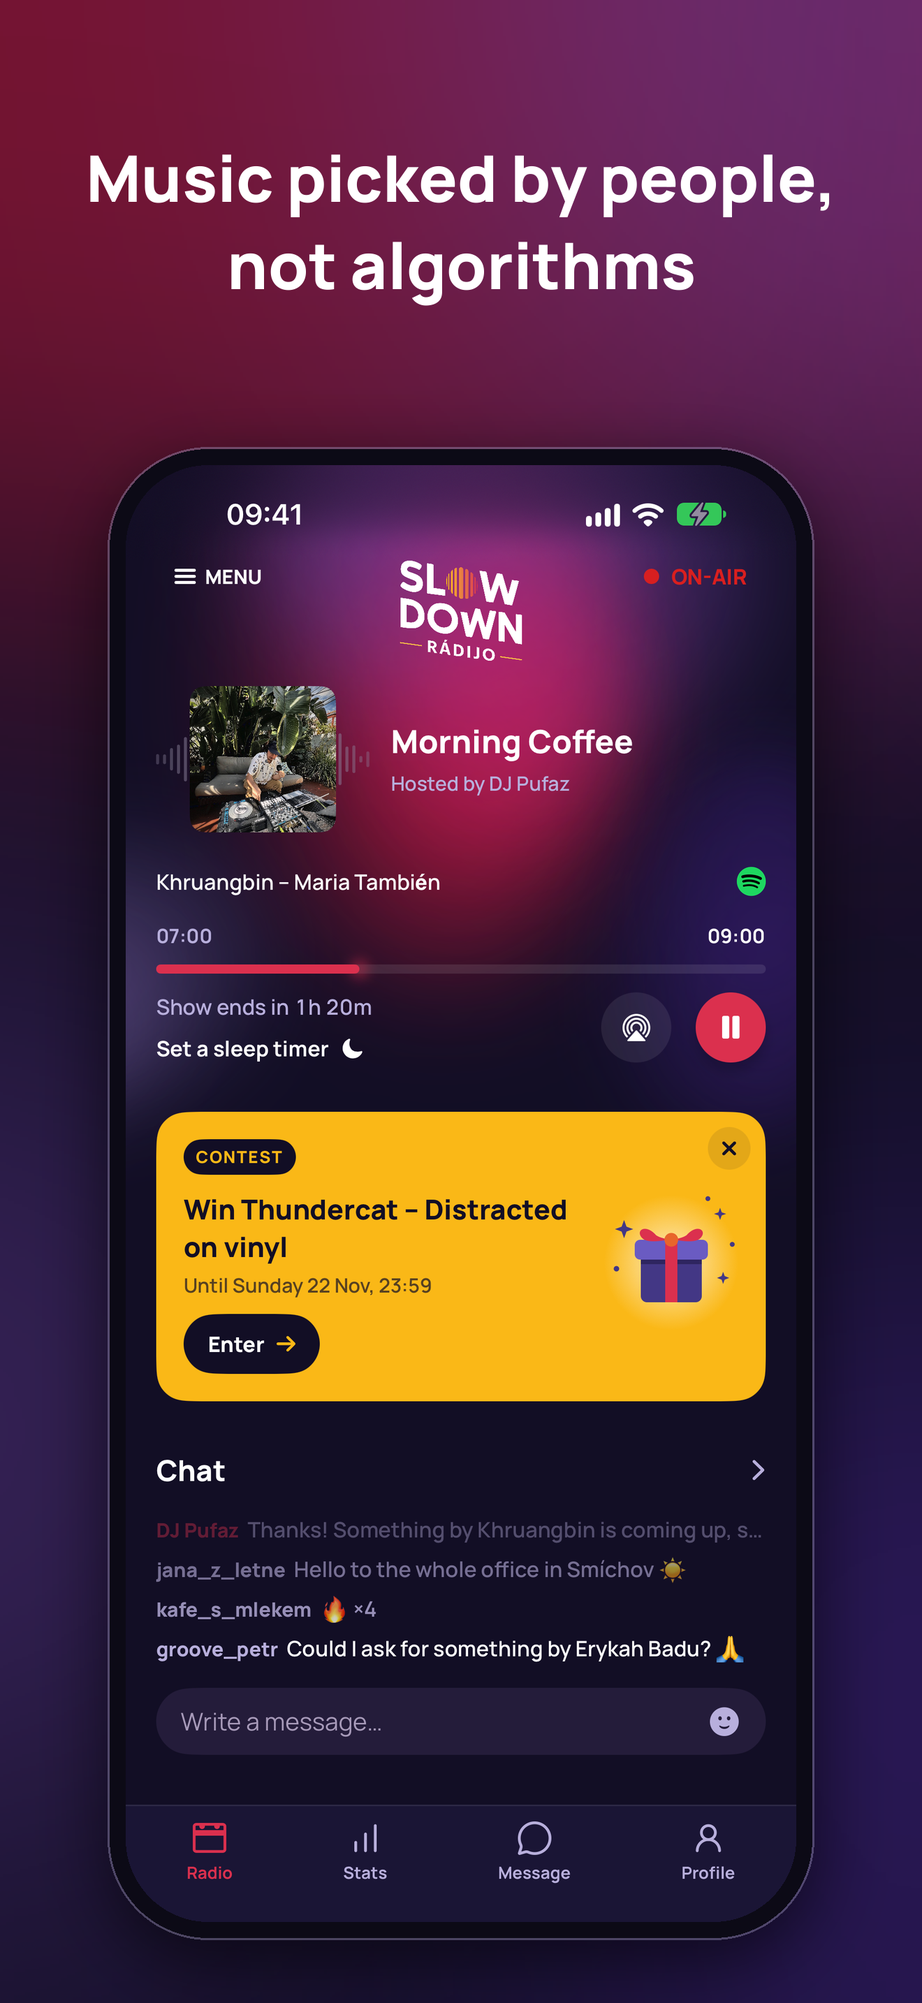
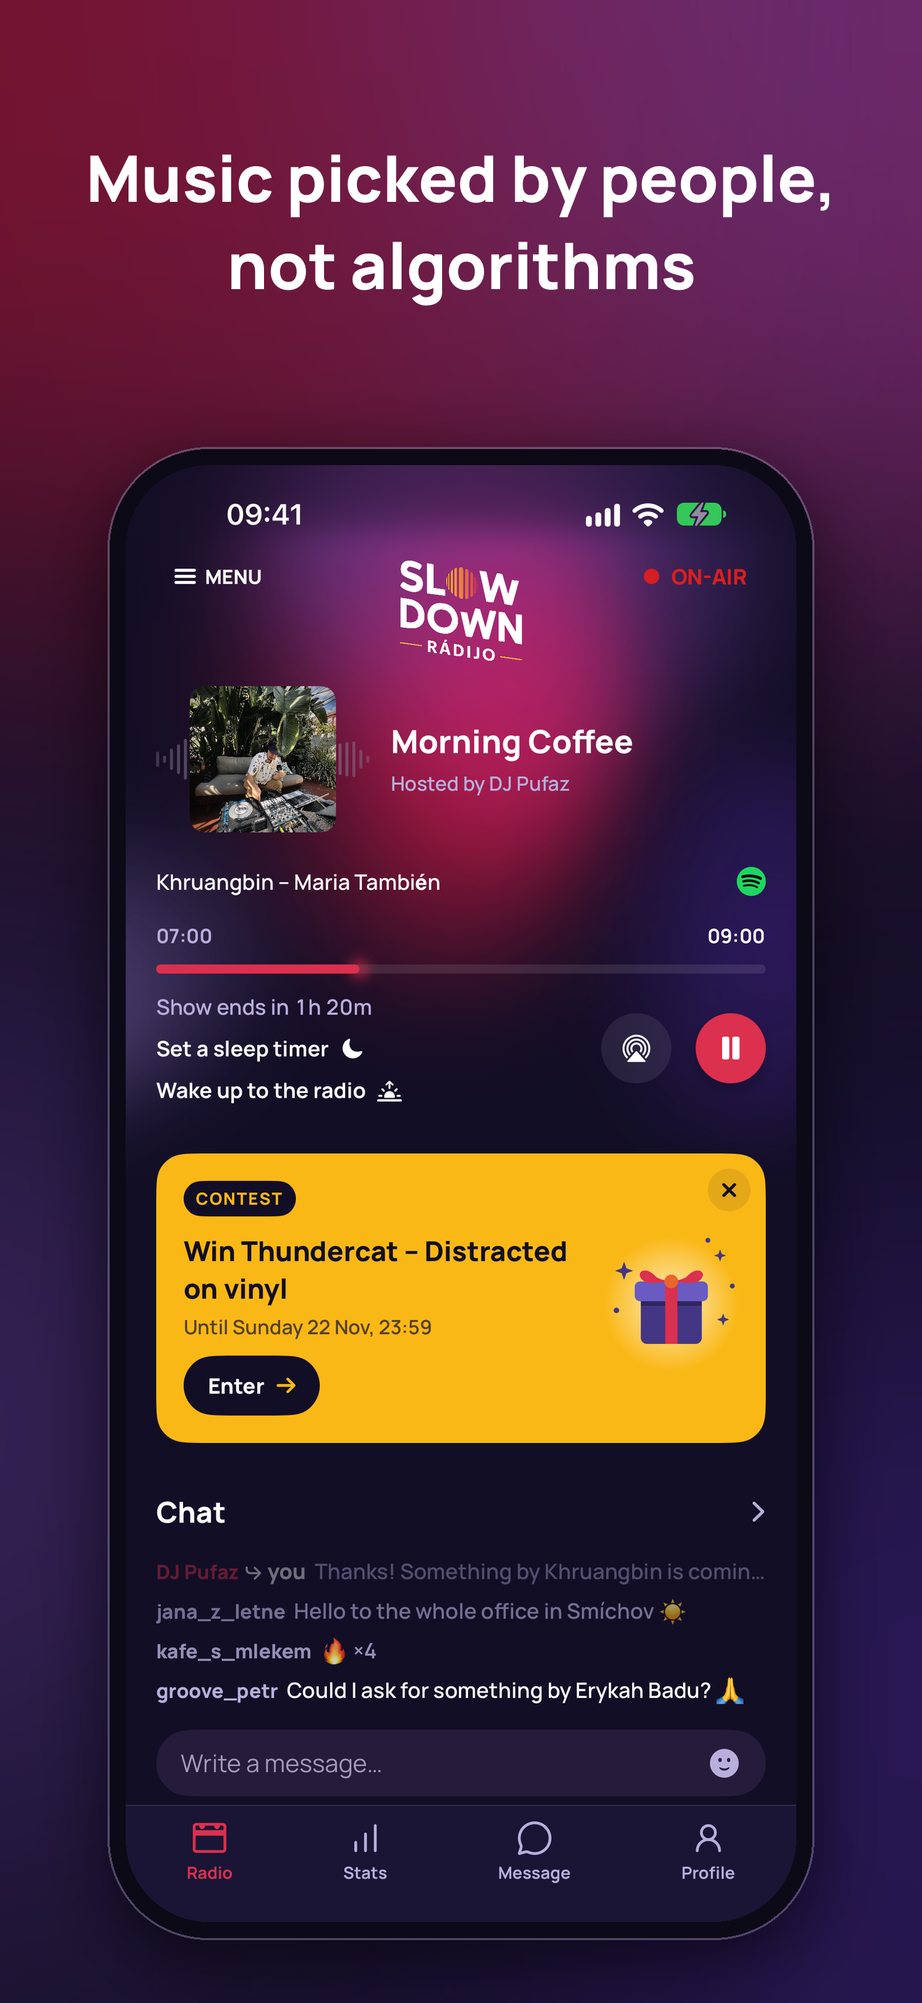
App Store 1.4: screenshots for iPhone and iPad 13", texts, release checklist
- iPad 13" set (frame.py --ipad), stats caption about the leaderboards
- 1.4 listing texts, What's New with replies and iPad, review notes 1.4
- docs/release-1.4-ios.md: the iOS release checklist
- the demo contest runs on the app's clock; the screenshot test closes
  the chat with its button (a form sheet on iPad)

Changed region(s): [[0.1553, 0.4965, 0.8386, 0.8999]]

diff --git a/SlowDownRadijoUITests/AppStoreScreenshotTests.swift b/SlowDownRadijoUITests/AppStoreScreenshotTests.swift
@@ -79,7 +79,10 @@ final class AppStoreScreenshotTests: XCTestCase {
             chat.tap()
             sleep(3)
             capture("2 chat")
-            app.swipeDown(velocity: .fast)
+            // On iPad the chat is a form sheet in the middle of the screen,
+            // which a swipe down doesn't reliably close.
+            let close = app.buttons["chat.close"]
+            if close.exists, close.isHittable { close.tap() } else { app.swipeDown(velocity: .fast) }
             sleep(2)
         }
 

diff --git a/SlowDownRadijo/Services/Contests/ContestService.swift b/SlowDownRadijo/Services/Contests/ContestService.swift
@@ -91,7 +91,7 @@ final class ContestService: ObservableObject {
             myEntry = try? c.decodeIfPresent(Entry.self, forKey: .myEntry)
         }
 
-        var isRunning: Bool { endsAt > Date() }
+        var isRunning: Bool { endsAt > AppClock.now }
 
         /// "A · Weekend Aftertaste" for a letter answer, else the words.
         func answerLabel(_ answer: String) -> String {

diff --git a/SlowDownRadijo/Views/Chat/ChatSheetView.swift b/SlowDownRadijo/Views/Chat/ChatSheetView.swift
@@ -304,6 +304,7 @@ struct ChatSheetView: View {
                     .background(Theme.statsCardRaised, in: Circle())
             }
             .accessibilityLabel(L10n.chatClose)
+            .accessibilityIdentifier("chat.close")
         }
         .padding(.horizontal, 20)
         .padding(.top, 20)

diff --git a/tools/appstore/frame.py b/tools/appstore/frame.py
@@ -13,6 +13,8 @@ Store.
 With --bare the screen stands on its own, without a phone outline.
 With --play the cards are 1080 x 1920 (Google Play's 9:16) instead of
 1320 x 2868, for the Android screens from StoreScreenshotTest.
+With --ipad the cards are 2064 x 2752 (App Store Connect's 13" iPad slot),
+for screens from the iPad Pro 13-inch simulator.
 
 Styles (the background): clouds (the one in use, the default), panorama
 (the sunset strip of 1.0), glow, sun, red, night.
@@ -92,8 +94,8 @@ SCREENS = {
         "glow": [(VIOLET, 0.2), (LIVE_RED, 0.95)],
     },
     "4 stats": {
-        "cs": "Tvůj čas s rádiem\nve statistikách",
-        "en": "Your time with the\nstation, in numbers",
+        "cs": "Týdenní a měsíční\nžebříček posluchačů",
+        "en": "Weekly and monthly\nlistener leaderboards",
         "glow": [(LIVE_RED, 0.1), (SUN_ORANGE, 0.9)],
     },
     "5 programme": {
@@ -117,6 +119,8 @@ PHONE_W = 960                 # the screen's width on the card
 BEZEL = 26
 SCREEN_RADIUS = 118
 PHONE_TOP = 640
+CAPTION_SIZE = 92
+CAPTION_Y = 330
 BARE = False  # --bare: the screen without a phone outline
 
 
@@ -252,11 +256,11 @@ def frame(screen_path, lang, key, out_path, style="clouds"):
 
     # Caption.
     draw = ImageDraw.Draw(card)
-    font = ImageFont.truetype(FONT, 92)
+    font = ImageFont.truetype(FONT, CAPTION_SIZE)
     text = spec[lang]
     box = draw.multiline_textbbox((0, 0), text, font=font, spacing=26, align="center")
     tw, th = box[2] - box[0], box[3] - box[1]
-    origin = ((W - tw) / 2 - box[0], 330 - th / 2 - box[1])
+    origin = ((W - tw) / 2 - box[0], CAPTION_Y - th / 2 - box[1])
     if style == "night":
         # The caption in the logo's sunset gradient.
         grad = Image.new("RGB", (1, 3))
@@ -266,7 +270,7 @@ def frame(screen_path, lang, key, out_path, style="clouds"):
         mask = Image.new("L", (W, H), 0)
         ImageDraw.Draw(mask).multiline_text(origin, text, font=font, fill=255, spacing=26, align="center")
         full = Image.new("RGB", (W, H))
-        full.paste(fill, (0, int(330 - th / 2) - 20))
+        full.paste(fill, (0, int(CAPTION_Y - th / 2) - 20))
         card.paste(full, (0, 0), mask)
     else:
         draw.multiline_text(origin, text, font=font, fill=(255, 255, 255), spacing=26, align="center")
@@ -318,8 +322,22 @@ def use_play_size():
     _cloud_strip = None
 
 
+def use_ipad_size():
+    """App Store Connect's 13" iPad slot (2064 x 2752): a wider card, the
+    clouds stretched to it, and the screen in a tablet outline."""
+    global W, H, PHONE_W, PHONE_TOP, SCREEN_RADIUS, BEZEL, CLOUDS, CAPTION_SIZE, CAPTION_Y, _cloud_strip
+    sx, sy = 2064 / W, 2752 / H
+    CLOUDS = [(cx * sx, cy * sy, rx * sx, ry * sy, c, k) for cx, cy, rx, ry, c, k in CLOUDS]
+    W, H = 2064, 2752
+    PHONE_W, PHONE_TOP, SCREEN_RADIUS, BEZEL = 1480, 600, 56, 30
+    CAPTION_SIZE, CAPTION_Y = 104, 320
+    _cloud_strip = None
+
+
 def main():
     args = [a for a in sys.argv[1:] if not a.startswith("--")]
+    if "--ipad" in sys.argv:
+        use_ipad_size()
     play = "--play" in sys.argv
     global BARE
     BARE = "--bare" in sys.argv

diff --git a/docs/app-store.md b/docs/app-store.md
@@ -12,7 +12,13 @@ Czech and English; best while a show with a host is on air. Upload the
 files in the artifact's `framed-6.3` folder (1206 x 2622): App Store
 Connect's iPhone slot is the 6.1"/6.3" Dynamic Island size.
 
-The 1.3 set (Morning Coffee with the contest card, chat, profile of `cevapcicidisko`, stats, programme, message, the contest page; taken with
+The 1.4 set (the same screens, the stats with the week's leaderboard,
+the chat with a reply; `-storeDemo YES -contestDemo YES`) is in
+`appstore/screenshots/6.3/{cs,en}` (iPhone, upload these),
+`appstore/screenshots/6.9/{cs,en}` and `appstore/screenshots/ipad-13/{cs,en}`
+(2064 x 2752, framed with `tools/appstore/frame.py <dir> <out> clouds --ipad`).
+
+Before that, the 1.3 set (Morning Coffee with the contest card, chat, profile of `cevapcicidisko`, stats, programme, message, the contest page; taken with
 `-storeDemo YES -contestDemo YES`, so any time of day) is in `appstore/screenshots/6.3/{cs,en}`
 (upload these) and `appstore/screenshots/6.9/{cs,en}`.
 
@@ -41,11 +47,11 @@ Hip hop, soul, jazz a funk
 
 **Promotional text**
 
-Poslouchej rádio, kde hudbu vybírají lidi, ne algoritmy. Nově s chatem posluchačů, profilem Slowridera a soutěžemi o ceny.
+Poslouchej rádio, kde hudbu vybírají lidi, ne algoritmy. Nově tě ráno vzbudí živé vysílání, v chatu odpovíš na konkrétní zprávu a appka je i pro iPad.
 
 **Keywords**
 
-radio,rádio,hiphop,rap,soul,funk,jazz,afrobeat,beats,groove,stream,živě,praha,chat,soutěž
+radio,rádio,hiphop,rap,soul,funk,jazz,afrobeat,beats,groove,stream,živě,praha,chat,soutěž,budík
 
 **Description**
 
@@ -53,17 +59,18 @@ Slow Down Rádijo v kapse. Živé vysílání rádia, které hraje hip hop, soul
 
 CO APPKA UMÍ
 • Živé vysílání na jedno klepnutí – i na pozadí, ze zamčené obrazovky, přes AirPlay a Bluetooth a v autě s CarPlay
-• Chat posluchačů: piš si s ostatními i s moderátory během vysílání – stačí přezdívka, bez registrace
+• Chat posluchačů: piš si s ostatními i s moderátory během vysílání a odpovídej na konkrétní zprávy – stačí přezdívka, bez registrace
 • Co se právě vysílá: pořad, moderátor a skladba, kterou jedním klepnutím najdeš na Spotify
 • Skladby, které hrály před chvílí – stačí přejet prstem do strany
 • Program na celý týden s popisy pořadů a připomínkou, když začíná tvůj oblíbený
-• Tvoje statistiky poslechu: dnešek, týden, celkový čas, oblíbené pořady a místo mezi posluchači
+• Tvoje statistiky poslechu: dnešek, týden, celkový čas, dny v řadě, oblíbené pořady a místo v týdenním i měsíčním žebříčku posluchačů
+• Budík s rádiem: ráno tě vzbudí živé vysílání (iOS 26 a novější)
 • Profil Slowridera: s volitelným účtem si změníš přezdívku a statistiky ti zůstanou i na novém telefonu
 • Soutěže o ceny od rádia – odpověz na otázku přímo v appce (pro Slowridery s účtem)
 • Hlasový vzkaz do rádia – nahraj pozdrav nebo přání a pošli ho moderátorům
 • Kvalita zvuku podle připojení: na Wi-Fi naplno, na datech úsporně
 • Časovač vypnutí, novinky z rádia a widget na plochu
-• Česky i anglicky
+• Na iPhonu i iPadu, česky i anglicky
 
 BEZ REKLAM, ÚČET JEN KDYŽ CHCEŠ
 Appku používáš bez reklam a bez registrace – i do chatu můžeš psát jen s přezdívkou. Účet Slowridera je dobrovolný. Statistiky poslechu jsou anonymní a můžeš je kdykoli vypnout i smazat. Měření používání appky se zapne jen s tvým souhlasem.
@@ -80,11 +87,11 @@ Hip hop, soul, jazz and funk
 
 **Promotional text**
 
-Listen to radio where people pick the music, not algorithms. Now with a listeners' chat, Slowrider profiles and contests with prizes.
+Listen to radio where people pick the music, not algorithms. Now it wakes you up with the live broadcast, you can reply to a message in the chat, and it runs on iPad.
 
 **Keywords**
 
-radio,hiphop,rap,soul,funk,jazz,afrobeat,beats,groove,stream,live,online,prague,czech,chat,contest
+radio,hiphop,rap,soul,funk,jazz,afrobeat,beats,groove,stream,live,prague,czech,chat,contest,alarm
 
 **Description**
 
@@ -92,17 +99,18 @@ Slow Down Rádijo in your pocket. The live stream of a radio station playing hip
 
 WHAT IT DOES
 • The live stream in one tap – in the background, from the lock screen, over AirPlay and Bluetooth, and in the car with CarPlay
-• Listeners' chat: talk with other listeners and the hosts during the show – just pick a nickname, no sign-up
+• Listeners' chat: talk with other listeners and the hosts during the show and reply to a particular message – just pick a nickname, no sign-up
 • What's on air: the show, the host and the song, which you can find on Spotify in one tap
 • The songs that played a moment ago – just swipe sideways
 • The whole week's schedule with show descriptions and a reminder when your favourite starts
-• Your listening stats: today, this week, all time, your favourite shows and where you are among listeners
+• Your listening stats: today, this week, all time, days in a row, your favourite shows and your place in the weekly and monthly listener leaderboards
+• Radio alarm: wake up to the live broadcast (iOS 26 and later)
 • Slowrider profile: with an optional account you can change your nickname and keep your stats on a new phone
 • Contests with prizes from the station – answer the question right in the app (for Slowriders with an account)
 • Voice messages to the station – record a shout-out or a request and send it to the hosts
 • Sound quality to match your connection: full quality on Wi-Fi, data-saving on mobile
 • A sleep timer, news from the station and a Home Screen widget
-• In Czech and English
+• On iPhone and iPad, in Czech and English
 
 NO ADS, AN ACCOUNT ONLY IF YOU WANT ONE
 No ads and no sign-up – you can even write in the chat with just a nickname. A Slowrider account is optional. Listening stats are anonymous, and you can turn them off and delete them at any time. Usage measurement only starts with your consent.
@@ -185,6 +193,8 @@ Version" (cs and en). Version 1.0 had none.
 • Zimní ikona na sezónu.
 • Budík s rádiem: ráno tě vzbudí živé vysílání. Nastavíš ho pod časovačem vypnutí (iOS 26 a novější).
 • Statistiky: týdenní a měsíční žebříček, takže šanci má každý — i kdo poslouchá teprve chvíli. Nově i dny v řadě.
+• Odpovědi v chatu: přejeď po zprávě prstem doprava nebo ji podrž a odpověz přímo na ni. Na úvodní obrazovce uvidíš, když ti někdo odpověděl.
+• Slow Down Rádijo i na iPadu, na výšku i na šířku.
 ```
 
 **1.4 — English**
@@ -194,6 +204,8 @@ Version" (cs and en). Version 1.0 had none.
 • A winter icon for the season.
 • Radio alarm: wake up to the live broadcast. Set it under the sleep timer (iOS 26 and later).
 • Stats: weekly and monthly leaderboards, so everyone has a chance — even if you've only just started listening. Plus your days in a row.
+• Replies in the chat: swipe a message to the right or press and hold it to reply to it directly. The home screen shows when someone has replied to you.
+• Slow Down Rádijo on iPad too, in portrait and landscape.
 ```
 
 Release 1.4 manually on 29 Nov 2026, and the version that brings the normal
@@ -318,6 +330,51 @@ Safeguards (guideline 1.2): chat rules in Profil > Pravidla chatu; press and hol
 
 8. CONTESTS (NEW IN 1.3, GUIDELINE 5.3)
 When the station runs a contest, a yellow card appears on the Rádio tab (it can be closed for good). The contest page shows the text, the prize, the end date, a link to the official rules (slowdownradijo.cz/pravidla-soutezi/) and the question. Entering needs a free account; the listener answers and leaves a phone number, used only to contact the winner. Entry is free, no purchase. The sponsor is Slow Down Radio s.r.o.; the page says that Apple and Google are not sponsors. Winners are drawn at random in the app by the station's admins. If no contest is running during review, the card is not shown.
+```
+
+**Notes for 1.4** (the whole field, about 3300 of the 4,000 characters; replaces the 1.3 notes; new section 9, the rest shortened to fit):
+
+```
+1. SCREEN RECORDING
+A screen recording from an iPhone on the latest iOS is attached: the live stream, what is on air, earlier songs, sleep timer, output picker, schedule with a reminder, chat, contest, Profil, stats, voice message and menu. New in 1.4: see 9.
+
+2. PURPOSE AND AUDIENCE
+Slow Down Rádijo is the official app of Slow Down Radio s.r.o., an internet radio station in Prague playing hip hop, soul, funk, jazz, Afrobeat and electronica hand-picked by its DJs. For listeners on iPhone, iPad and CarPlay: one tap to play live, what is on air, the weekly schedule, a sleep timer, a radio alarm, listening stats, voice messages to the studio and a listeners' chat.
+
+3. HOW TO USE IT
+Open the app; the live stream starts (or tap Play).
+- Rádio: show, host and song on air (tap the song for Spotify, swipe for earlier songs); moon: sleep timer; the radio alarm below it; the Chat section; the schedule with reminders.
+- Statistiky: own listening time, weekly and monthly anonymous leaderboards.
+- Vzkaz: record a voice message (microphone permission) and send it.
+- Profil: optional account (see 7).
+- Menu (top left): news, settings, feedback.
+Czech and English.
+
+4. EXTERNAL SERVICES
+- Live audio: play.cz Icecast servers (the station's provider).
+- Supabase (UK): stats, songs played, optional account (Sign in with Apple, Google, e-mail codes), chat, voice messages and feedback.
+- Resend: e-mail for voice messages, feedback and sign-in codes.
+- slowdownradijo.cz: news and programme.
+- iTunes Search API: artwork. PostHog (EU): analytics only after opt-in. Spotify: a search link, no SDK.
+No payments or AI.
+
+5. REGIONAL DIFFERENCES
+None.
+
+6. THIRD-PARTY MATERIAL
+Only the station's own live broadcast, as at slowdownradijo.cz. Licences from OSA and INTERGRAM. Photos and logos belong to the station.
+
+7. ACCOUNT AND CHAT (GUIDELINE 1.2)
+Anyone can read and write; the first message asks for a nickname. An optional account changes the nickname and keeps the profile on a new phone; delete it in Profil > Smazat účet. Rules in Profil > Pravidla chatu; press and hold a message to report it or hide its author; hosts and admins moderate (delete, mute, block); anti-spam limits; reports are reviewed; info@slowdownradijo.cz.
+
+8. CONTESTS (GUIDELINE 5.3)
+When a contest runs, a card appears on the Rádio tab, with the rules (slowdownradijo.cz/pravidla-soutezi/), the prize and a question. Entering needs a free account and a phone number to contact the winner. Free, no purchase; sponsor Slow Down Radio s.r.o., not Apple or Google. Winners drawn at random. No contest during review = no card.
+
+9. NEW IN 1.4
+- iPad: native, portrait and landscape.
+- Radio alarm (iOS 26+, AlarmKit): Rádio tab > "Vzbudí tě rádio" under the sleep timer; pick a time and days, allow alarms. While an alarm is set within the next 12 hours and the app is still running, it keeps a silent, mixable audio session so that at the alarm time it can play the live stream the listener chose to wake up to, with a fade-in. Otherwise the system alarm rings and its "Pustit rádio" button opens the app and starts the stream.
+- Chat replies: swipe a message right or press and hold > Odpovědět; tap the quote to jump to the original.
+- Winter look: 29 Nov to 6 Jan it snows in the header (can be turned off in Menu > Nastavení). Before 29 Nov only the winter icon shows.
 ```
 
 Keep it in step with the app: a new external service, account,

diff --git a/docs/release-1.4-ios.md b/docs/release-1.4-ios.md
@@ -1,0 +1,94 @@
+# Vydání 1.4 na iOS – checklist
+
+*Připraveno 27. 11. 2026. Google Play zatím čeká na schválení 1.3, Android 1.4 řešíme zvlášť.*
+*✅ hotovo · ⬜ zbývá · ⚠ pozor*
+
+Texty k vložení: `docs/app-store.md` (popis, propagační text, klíčová slova,
+„Co je nového“ 1.4, poznámka pro recenzenta 1.4). Snímky:
+`appstore/screenshots/`.
+
+## 0. Termín
+
+- ⚠ Plán byl poslat 1.4 ke kontrole do ~26. 11. a vydat ručně **29. 11.
+  ráno** (první adventní neděle, `docs/winter.md`). Kontrola u Applu trvá
+  obvykle 1–2 dny. **Poslat co nejdřív**, nejpozději 28. 11. dopoledne. Když
+  schválení nestihne 29. 11., nic se nestane: sněžení se zapne samo, jakmile
+  posluchač verzi má, jen zimní ikona přijde později.
+
+## 1. Kód do main (GitHub)
+
+1.4 je rozdělená do PR, které na sebe navazují. Slučovat zdola nahoru, po
+každém sloučení GitHub přesměruje další PR na `main`:
+
+1. ⬜ [#10](https://github.com/RadekSchenk/SlowDownRadijo/pull/10) zimní vzhled, žebříčky, budík → `main`
+2. ⬜ [#12](https://github.com/RadekSchenk/SlowDownRadijo/pull/12) tablety
+3. ⬜ [#13](https://github.com/RadekSchenk/SlowDownRadijo/pull/13) analytika 1.4
+4. ⬜ [#14](https://github.com/RadekSchenk/SlowDownRadijo/pull/14) odpovědi v chatu (+ oprava scrollování, + Keychain)
+5. ⬜ [#11](https://github.com/RadekSchenk/SlowDownRadijo/pull/11) hledání moderátorů ve správě (samostatné, do `main`)
+
+Verze je už nastavená: `MARKETING_VERSION` 1.4 v `project.yml`,
+`versionName` 1.4 na Androidu.
+
+## 2. Supabase – migrace na produkci (před odesláním ke kontrole)
+
+Recenzent i posluchači 1.4 je potřebují. Verzi 1.3 nevadí, můžou jít hned.
+
+- ⬜ `backend/supabase/sql/029_period_ranking.sql` – týdenní a měsíční žebříček
+- ⬜ `backend/supabase/sql/030_chat_replies.sql` – odpovědi v chatu (až po 029)
+- ✅ `029_admin_find_hosts.sql` – už na produkci
+
+Spustit v Supabase → SQL Editor (celý soubor), nebo mi řekni a pustím je.
+Kontrola: v TestFlightu ukazují Statistiky místo v týdnu/měsíci a odpověď
+v chatu se odešle.
+
+## 3. Build
+
+- ✅ TestFlight 2611272027 (celá 1.4 + oprava scrollování) – na otestování.
+- ⬜ Na skutečném iPhonu projít:
+  - scrollování chatu nahoru a dolů, odpověď swipem i podržením, skok na citaci,
+    „↳ tobě“ na úvodní obrazovce,
+  - **budík s rádiem** (v simulátoru nejde ověřit): nastavit za pár minut,
+    nechat appku běžet se zamčeným telefonem, pak totéž s appkou zavřenou
+    (zazvoní systémový budík → „Pustit rádio“),
+  - žebříček týden/měsíc, zimní vzhled (od 29. 11.; vypíná se v Nastavení),
+  - iPad: otáčení, chat, statistiky.
+- ⬜ Po sloučení do `main` nahrát finální build (Xcode zavřený):
+  `git switch main && git pull && tools/release/upload.sh`.
+  Nebo poslat ke kontrole přímo 2611272027, obsahuje totéž.
+
+## 4. App Store Connect → iOS App → **+** → verze **1.4**
+
+- ⬜ **Snímky iPhone** (slot 6,3"/6,1"): `appstore/screenshots/6.3/cs` a `/en`
+  (7 kusů, pořadí podle čísla v názvu; připravené ✅). Velikost 6,9" je
+  v `6.9/`, kdyby ji App Store Connect chtěl.
+- ⬜ **Snímky iPad 13"** – nově povinné, appka je od 1.4 i pro iPad:
+  `appstore/screenshots/ipad-13/cs` a `/en` (2064 × 2752, 7 kusů; připravené ✅).
+- ⬜ **Propagační text** (cs, en) – nový, `docs/app-store.md`.
+- ⬜ **Popis** (cs, en) – doplněný budík, odpovědi, žebříčky a iPad.
+- ⬜ **Klíčová slova** – přibylo „budík“ / „alarm“ (EN bez „online“, kvůli limitu 100).
+- ⬜ **Co je nového ve verzi 1.4** (cs, en) – `docs/app-store.md`, oddíl What's New.
+- ⬜ **Build**: vybrat 2611272027 (nebo finální z `main`).
+- ⬜ **App Review Information → Notes**: celý blok „Notes for 1.4“
+  (~3 300 znaků). Příloha s nahrávkou obrazovky může zůstat z 1.3.
+- ⬜ **Version Release**: „Manually release this version“.
+- ⬜ App Privacy: beze změny (odpovědi jsou obsah chatu, budík je jen v telefonu).
+- ⬜ Add for Review → Submit.
+
+⚠ Riziko u kontroly: budík drží appku přes noc naživu tichým zvukem
+(pravidlo 2.5.4). Poznámka pro recenzenta to vysvětluje. Kdyby to Apple
+vrátil, stačí nevolat `RadioAlarmNightWatch.start()` a zůstane jen systémový
+budík (`docs/radio-alarm.md`).
+
+## 5. Vydání
+
+- ⬜ **29. 11. ráno**: App Store Connect → 1.4 → Release This Version.
+- ⬜ PostHog: na dashboardu přehledy „Budík s rádiem“ a „Statistiky: který
+  žebříček“ a nové `chat_reply_started` / `is_reply` u `chat_message_sent`.
+
+## 6. Potom
+
+- ⬜ **1.4.1 s normální ikonou** (`docs/winter.md`): v `project.yml` zpět
+  `AppIcon`. Poslat ke kontrole začátkem prosince (Apple má 23.–27. 12. omezený
+  provoz), vydat ručně **7. 1. 2027**.
+- ⬜ Android 1.4, až Google schválí 1.3: nové screenshoty pro Google Play
+  (`StoreScreenshotTest`), texty z `docs/google-play.md`.
